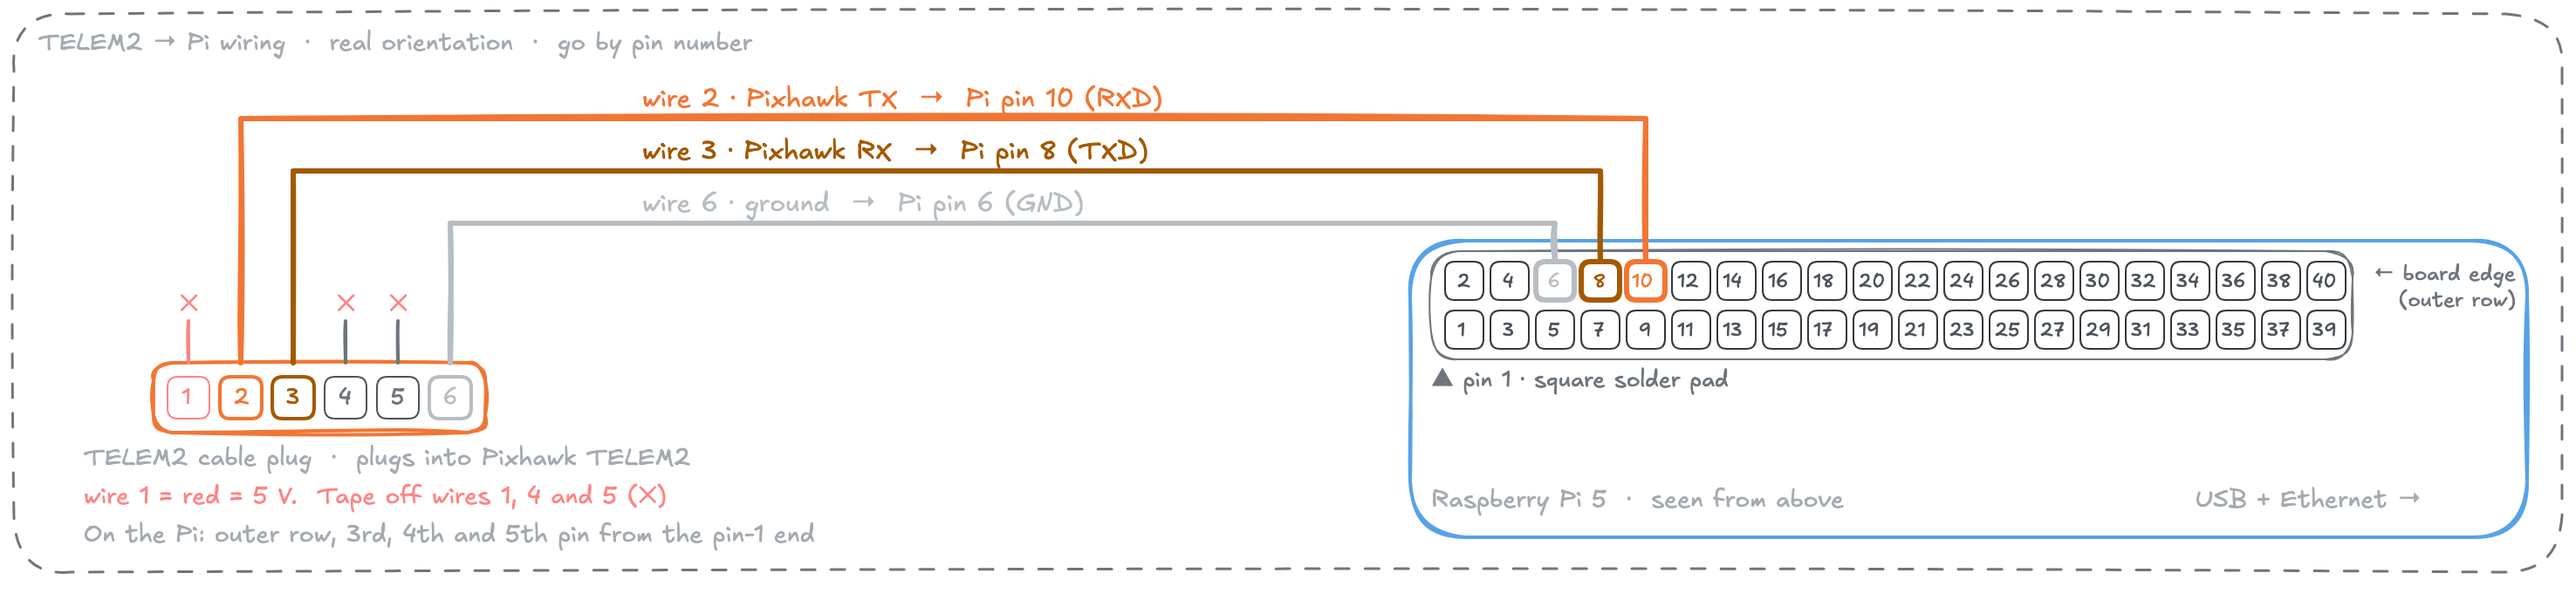
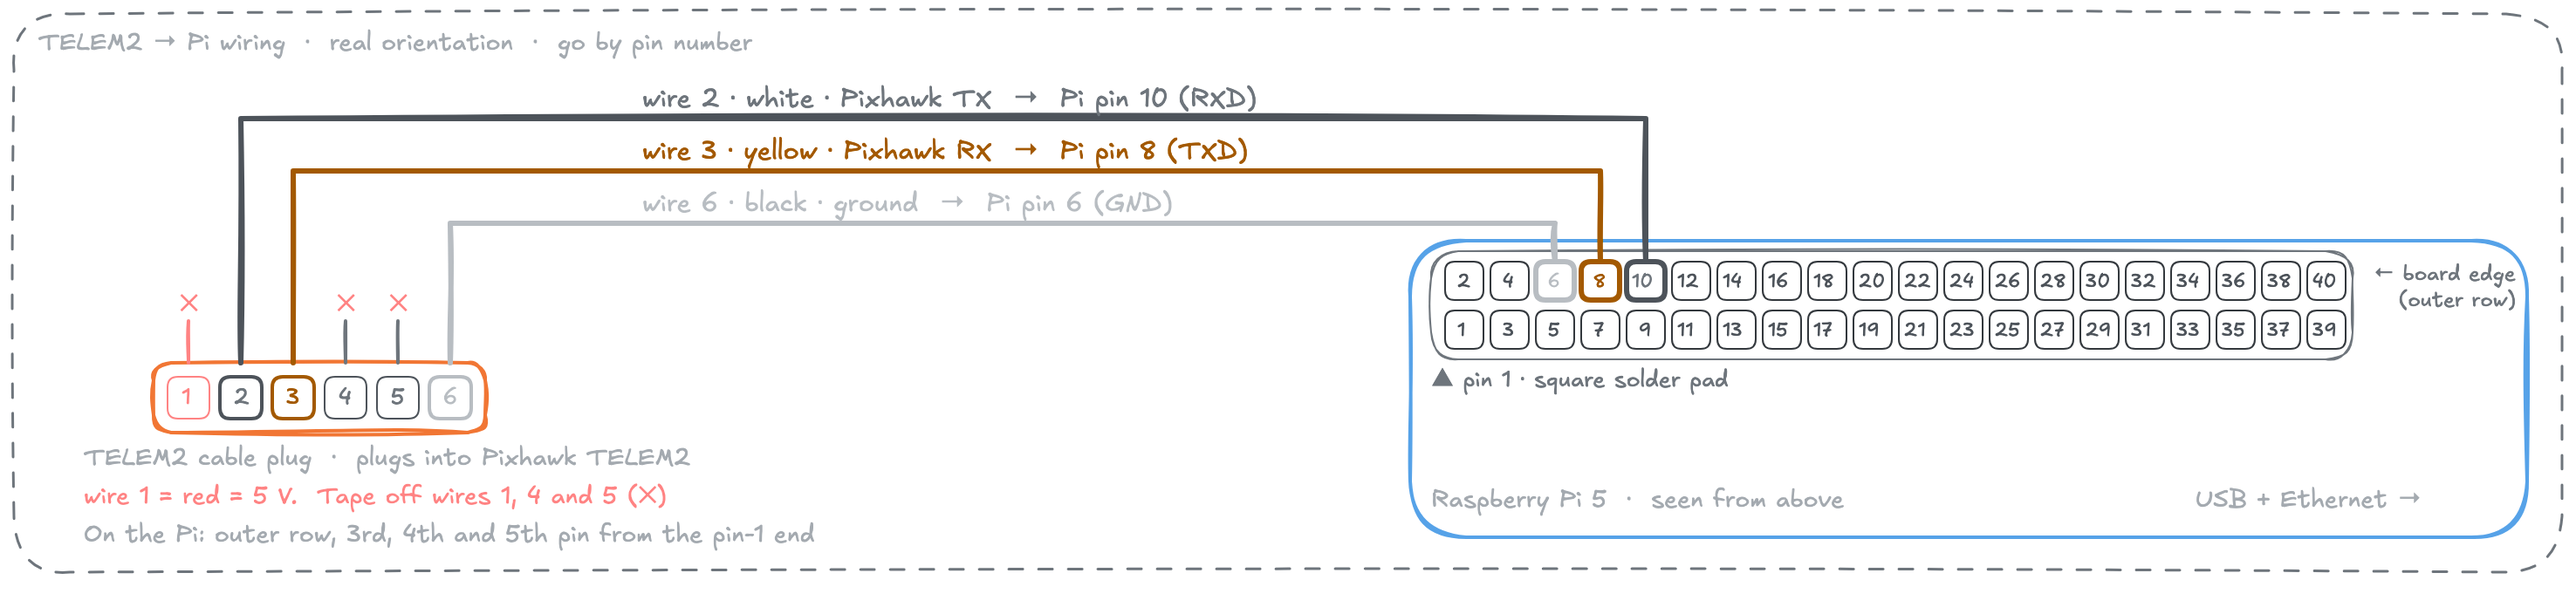
telem2 wire colors are white tx, yellow rx, black gnd; document crossing tx/rx and checking the dds client starts

Changed region(s): [[0.0935, 0.125, 0.6545, 0.2812], [0.2805, 0.3125, 0.4675, 0.3438], [0.6233, 0.4062, 0.6545, 0.5]]

diff --git a/docs/pi-setup.md b/docs/pi-setup.md
@@ -18,12 +18,14 @@ If something that used to work stops working, read [pi-known-issues.md](pi-known
 
 TELEM2 uses 3 of its 6 wires. Count from pin 1, the red wire.
 
+The data wires cross: the Pixhawk's TX goes to the Pi's RX, and the Pixhawk's RX goes to the Pi's TX. RX to RX gets no data at all. Turn the Pi off before you touch its pins.
+
 | TELEM2 wire | Pi pin |
 | --- | --- |
-| 1 (5 V) | nothing, tape it off |
-| 2 (TX, orange) | 10 |
-| 3 (RX, yellow) | 8 |
-| 6 (GND) | 6 |
+| 1 (5 V, red) | nothing, tape it off |
+| 2 (Pixhawk TX, white) | 10 (Pi RXD) |
+| 3 (Pixhawk RX, yellow) | 8 (Pi TXD) |
+| 6 (GND, black) | 6 (GND) |
 
 <picture>
   <source media="(prefers-color-scheme: dark)" srcset="architecture/telem2-wiring-dark.png">
@@ -77,6 +79,17 @@ On the Pi, all three are in the outer row (along the board edge): the 3rd, 4th a
    | `UXRCE_DDS_CFG` | `102` (TELEM2) |
    | `SER_TEL2_BAUD` | `921600` |
    | `MAV_1_CONFIG` | `0` |
+
+   Set them in QGroundControl, not with a pymavlink script. A script that sends the number the wrong way saves `UXRCE_DDS_CFG` as `1120665600`, even though reading it back over MAVLink still shows `102`. PX4 then never starts the DDS client on TELEM2.
+
+4. After the reboot, check it in the MAVLink Console (Analyze Tools → MAVLink Console):
+
+   ```text
+   param show UXRCE_DDS_CFG
+   uxrce_dds_client status
+   ```
+
+   The first must print exactly `102`, and the second `Running`. If it says `not running`, set `UXRCE_DDS_CFG` again and reboot.
 
 ## 4. Start everything
 
@@ -147,7 +160,7 @@ Each of these is explained in more detail in [pi-known-issues.md](pi-known-issue
 
 | Problem | Fix |
 | --- | --- |
-| `px4-agent` has no `create_client` | First check `systemctl status serial-getty@ttyAMA0` says masked (step 2.4). Then: the TELEM2 wires are loose or TX/RX are swapped. With the agent stopped, `stty -F /dev/ttyAMA0 921600 raw; timeout 4 cat /dev/ttyAMA0 \| wc -c` must print more than 0. Also check `UXRCE_DDS_CFG = 102`. |
+| `px4-agent` has no `create_client` | 1) `uxrce_dds_client status` in the MAVLink Console says `Running` (step 3.4). 2) `systemctl status serial-getty@ttyAMA0` says masked (step 2.4). 3) The TELEM2 wires are tight and TX/RX are crossed. With the agent stopped, `stty -F /dev/ttyAMA0 921600 raw; timeout 4 cat /dev/ttyAMA0 \| wc -c` must print more than 0. |
 | `oak-d` keeps restarting with `No available devices` or `Insufficient permissions` | The udev rule from step 2 is missing. Add it, then unplug and replug the camera. |
 | Camera topics exist in `oak-d` but not in autonomy | Every container needs `FASTDDS_BUILTIN_TRANSPORTS=UDPv4` (it's in both compose files). |
 | Camera rate is low | It's in a black USB 2 port. Move it to a blue one. |

diff --git a/docs/pi-known-issues.md b/docs/pi-known-issues.md
@@ -78,6 +78,10 @@ Then unplug and replug the camera.
 
 **Fix:** set `UXRCE_DDS_CFG = 102`, `SER_TEL2_BAUD = 921600` and `MAV_1_CONFIG = 0` in QGroundControl, then reboot the Pixhawk.
 
+**Also happened:** on Oct 29 we set `UXRCE_DDS_CFG` with a pymavlink script. It sent `102` as a float, so PX4 saved `1120665600`, but reading it back over MAVLink still showed `102`. PX4 didn't start the DDS client at boot, and `uxrce_dds_client status` said `not running`. Setting it with `param set UXRCE_DDS_CFG 102` in the MAVLink Console fixed it.
+
+**Check:** in the MAVLink Console (QGroundControl → Analyze Tools), `param show UXRCE_DDS_CFG` prints exactly `102` and `uxrce_dds_client status` says `Running`.
+
 ## 6. The radio has a different name
 
 **What you see:** `airborne-bridge` won't start and the error names a `/dev/serial/by-id/...FTDI...` path.
@@ -99,3 +103,11 @@ Then unplug and replug the camera.
 **Why:** Tailscale SSH is in "check" mode, so it asks you to approve in the browser now and then. Each link only works for a few minutes.
 
 **Fix:** run `ssh lidron-cranberry@lidron-cranberry` again to get a new link, and open it right away with the LiDRON account.
+
+## 9. TELEM2 wired RX to RX
+
+**What you see:** `px4-agent` has no `create_client`, and `timeout 4 cat /dev/ttyAMA0 | wc -c` prints `0`, even though `uxrce_dds_client status` on the Pixhawk says `Running`.
+
+**Why:** the Pixhawk's RX wire was on the Pi's RX pin. Each side has to send on its TX into the other side's RX.
+
+**Fix:** turn the Pi off, then wire white (Pixhawk TX) to Pi pin 10 (RXD), yellow (Pixhawk RX) to Pi pin 8 (TXD), and black (GND) to Pi pin 6. See the drawing in [pi-setup.md](pi-setup.md#1-connect-the-hardware).
